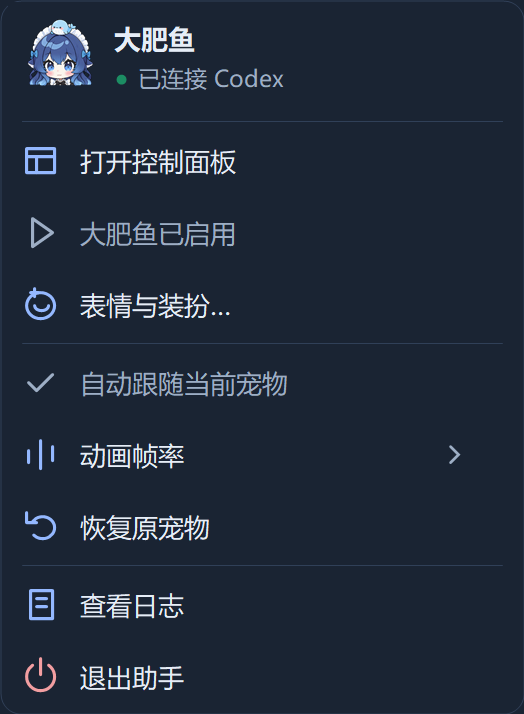
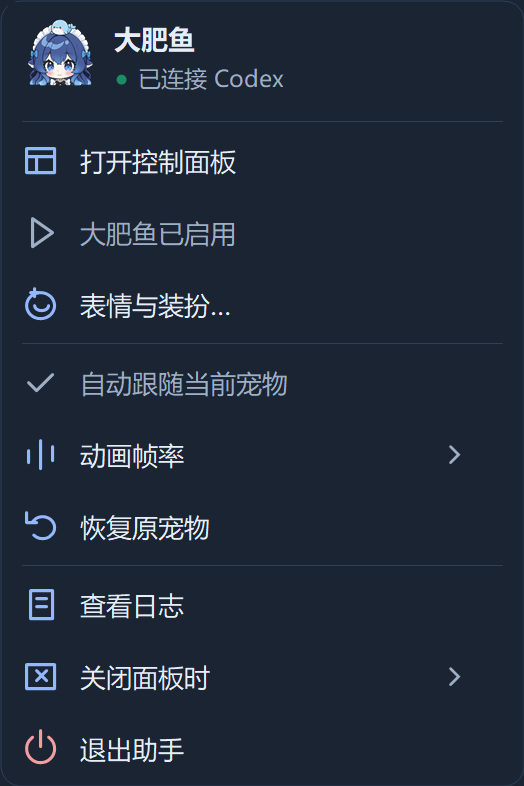
Remember the control panel close action

diff --git a/native/Launcher.cs b/native/Launcher.cs
@@ -95,7 +95,7 @@ internal static class Program {
         else {
             var dashboard=new Dashboard();dashboard.AllowClose=true;
             dashboard.UpdateState(state=="restore-warning"?"大肥鱼已停用，原宠物未显示":state=="waiting"?"等待 Codex 正常退出":state=="error"?"暂未连接":"已连接 Codex",
-                state=="restore-warning"?"刷新宠物窗口后，原图仍未加载。可再次恢复，或启用大肥鱼。":state=="waiting"?"请完成当前工作，再从系统托盘完整退出 Codex。助手会随后正常重开。":state=="error"?"角色暂未加载完成。可以重试连接，或查看日志了解原因。":"大肥鱼正在陪你工作。点关闭可选择收起到托盘、退出或取消。",
+                state=="restore-warning"?"刷新宠物窗口后，原图仍未加载。可再次恢复，或启用大肥鱼。":state=="waiting"?"请完成当前工作，再从系统托盘完整退出 Codex。助手会随后正常重开。":state=="error"?"角色暂未加载完成。可以重试连接，或查看日志了解原因。":"大肥鱼正在陪你工作。收起到托盘后，助手会继续运行。",
                 "界面预览 · 自动跟随当前宠物 · 目标 60 FPS",state=="restore-warning"?state:state=="waiting"?"waiting":state=="error"?"error":"active",false,60,true);
             if(state=="watching")dashboard.UpdateState("等待你打开 Codex","助手继续监测。点“打开 Codex”或再次运行大肥鱼入口，即可一起打开并接入。","自动监测 · 目标 60 FPS",state,false,60,true);
             if(state=="handoff-wait")dashboard.UpdateState("等待你完整退出 Codex","已安排自动接入。请从系统托盘右键 Codex → 退出，助手会随后重开。只关窗口不算退出。","等待接续 · 目标 60 FPS",state,false,60,true);
@@ -130,6 +130,19 @@ internal static class Program {
     }
     internal static string Text(Dictionary<string,object> data,string key,string fallback="") { object value;return data!=null&&data.TryGetValue(key,out value)&&value!=null?Convert.ToString(value):fallback; }
     internal static Dictionary<string,object> ReadPreferences() {try {return ReadJson(Path.Combine(Data,"preferences.json"));}catch{return new Dictionary<string,object>{{"theme","system"},{"dragCompatibility",true},{"earlyAvoidance",false},{"avoidanceTrigger","press"},{"previewBackground","theme"}};} }
+    // This window preference belongs to the launcher, independent of the renderer.
+    internal static string ReadCloseBehavior() {
+        try {var value=File.ReadAllText(Path.Combine(Data,"close-behavior.txt")).Trim();if(value=="tray"||value=="exit")return value;}
+        catch(IOException) {} catch(UnauthorizedAccessException) {}
+        return "ask";
+    }
+    internal static void WriteCloseBehavior(string value) {
+        if(value!="ask"&&value!="tray"&&value!="exit")throw new ArgumentException("Invalid close behavior");
+        Directory.CreateDirectory(Data);
+        var file=Path.Combine(Data,"close-behavior.txt");var temp=file+".tmp";
+        File.WriteAllText(temp,value+"\n",new UTF8Encoding(false));
+        if(File.Exists(file))File.Replace(temp,file,null);else File.Move(temp,file);
+    }
     internal static void ApplyTheme(string theme) {if(!Palette.Configure(theme))return;foreach(Form form in Application.OpenForms){var app=form as AppForm;if(app!=null)app.RefreshTheme();} }
     internal static bool CoreReady() {
         try {
@@ -194,10 +207,14 @@ internal sealed class PetContext : ApplicationContext {
     private string version="",heading="准备连接",detail="正在准备大肥鱼的运行环境。",displayState="starting";
     internal PetContext() {
         dragGuard=new NativeDragGuard(delegate(bool moving) {if(controller!=null&&!controller.HasExited){controller.StandardInput.WriteLine("{\"type\":\"window-drag\",\"moving\":"+(moving?"true":"false")+",\"nativeFastHideCount\":"+dragGuard.FastHideCount+"}");controller.StandardInput.Flush();}});
-        MainForm=panel;ReadSettings();
+        MainForm=panel;ReadSettings();panel.CloseBehavior=Program.ReadCloseBehavior();
         panel.EnableRequested=StartPet;panel.RestoreRequested=RestorePet;panel.FollowRequested=delegate { Reconfigure("--pet-id auto"); };
         panel.FpsRequested=delegate(int requested) { if(requested!=fps)Reconfigure("--fps "+requested); };
         panel.HideRequested=delegate { panel.Hide(); };panel.ExitRequested=Shutdown;panel.LogsRequested=Program.OpenLogs;
+        panel.CloseActionRequested=delegate(string action,bool remember) {
+            if(remember&&!SetCloseBehavior(action))return;
+            if(action=="exit")Shutdown();else panel.Hide();
+        };
         panel.AboutRequested=delegate { using(var about=new AboutDialog())about.ShowDialog(panel); };
         panel.AppearanceRequested=OpenAppearance;
         panel.ThemeRequested=delegate(string choice){SavePreference("theme",choice);};
@@ -207,6 +224,7 @@ internal sealed class PetContext : ApplicationContext {
         trayMenu=new PetTrayMenu();trayMenu.PanelRequested=ShowPanel;trayMenu.EnableRequested=StartPet;
         trayMenu.RestoreRequested=RestorePet;trayMenu.FollowRequested=delegate {Reconfigure("--pet-id auto");};
         trayMenu.AppearanceRequested=OpenAppearance;trayMenu.LogsRequested=Program.OpenLogs;trayMenu.ExitRequested=Shutdown;
+        trayMenu.CloseBehaviorRequested=delegate(string choice){SetCloseBehavior(choice);};
         trayMenu.FpsRequested=delegate(int requested) {if(requested!=fps)Reconfigure("--fps "+requested);};
         tray=new NotifyIcon { Text="大肥鱼 · 准备连接",ContextMenuStrip=trayMenu,Visible=false };UpdateTrayIcon();tray.Visible=true;
         tray.DoubleClick+=delegate { ShowPanel(); };
@@ -229,12 +247,23 @@ internal sealed class PetContext : ApplicationContext {
         var preferences=Program.ReadPreferences();theme=Program.Text(preferences,"theme","system");dragCompatibility=!Program.Text(preferences,"dragCompatibility","True").Equals("False",StringComparison.OrdinalIgnoreCase);earlyAvoidance=Program.Text(preferences,"earlyAvoidance","False").Equals("True",StringComparison.OrdinalIgnoreCase);avoidanceTrigger=Program.Text(preferences,"avoidanceTrigger","press");Program.ApplyTheme(theme);
     }
     private void SavePreference(string key,object value) {if(busy||closing)return;string encoded=Convert.ToBase64String(Encoding.UTF8.GetBytes(new JavaScriptSerializer().Serialize(new Dictionary<string,object>{{key,value}})));Work(delegate{Program.Run("preferences.mjs","set "+encoded);},delegate{ReadSettings();Render();});}
+    private bool SetCloseBehavior(string value) {
+        if(value==panel.CloseBehavior)return true;
+        try {Program.WriteCloseBehavior(value);}
+        catch(IOException error) {return CloseBehaviorWriteFailed(error);}
+        catch(UnauthorizedAccessException error) {return CloseBehaviorWriteFailed(error);}
+        panel.CloseBehavior=value;trayMenu.UpdateCloseBehavior(value);return true;
+    }
+    private bool CloseBehaviorWriteFailed(Exception error) {
+        Program.UiLog(error.ToString());ShowPanel();Display(heading,"未能保存关闭偏好。请重试，或查看日志。",displayState);return false;
+    }
     private void Render() {
         if(panel.IsDisposed)return;
         string metadata=(String.IsNullOrEmpty(version)?"本机连接":"Codex "+version)+" · "+(automatic?"自动跟随当前宠物":"固定宠物")+" · 目标 "+fps+" FPS";
         panel.UpdateState(heading,detail,metadata,displayState,busy,fps,automatic);
         panel.UpdateOptions(theme,dragCompatibility,earlyAvoidance,avoidanceTrigger,busy);
         trayMenu.UpdateState(heading,displayState,busy,fps,automatic);
+        trayMenu.UpdateCloseBehavior(panel.CloseBehavior);
         string tooltip="大肥鱼 · "+heading;tray.Text=tooltip.Length>63?tooltip.Substring(0,63):tooltip;
     }
     private void Display(string title,string description,string state) {

diff --git a/native/Dashboard.cs b/native/Dashboard.cs
@@ -97,7 +97,8 @@ internal sealed class SettingsSwitch : CheckBox {
     protected override void OnPaint(PaintEventArgs e) {
         float scale=e.Graphics.DpiX/96f;float width=44*scale,height=24*scale;
         var track=new RectangleF(Width-width, (Height-height)/2,width,height);
-        e.Graphics.Clear(Palette.Surface);e.Graphics.SmoothingMode=SmoothingMode.AntiAlias;
+        Color background=Parent is CardPanel?Palette.Surface:Palette.Background;
+        e.Graphics.Clear(background);e.Graphics.SmoothingMode=SmoothingMode.AntiAlias;
         Color fill=Checked?(Enabled?Palette.Blue:Palette.Dark?Color.FromArgb(53,76,111):Color.FromArgb(159,185,229)):
             Palette.Dark?Color.FromArgb(48,64,88):Color.FromArgb(209,220,235);
         if(hover&&Enabled)fill=Checked?Color.FromArgb(37,91,198):Palette.Dark?Color.FromArgb(61,79,105):Color.FromArgb(190,207,229);
@@ -107,7 +108,7 @@ internal sealed class SettingsSwitch : CheckBox {
             e.Graphics.FillEllipse(brush,Checked?track.Right-padding-knob:track.Left+padding,track.Top+padding,knob,knob);
         var textRect=new Rectangle(0,0,Math.Max(0,(int)(track.Left-12*scale)),Height);
         TextRenderer.DrawText(e.Graphics,Text,Font,textRect,Enabled?Palette.Ink:Palette.Muted,TextFormatFlags.Left|TextFormatFlags.VerticalCenter|TextFormatFlags.SingleLine|TextFormatFlags.NoPadding);
-        if(Focused&&ShowFocusCues)ControlPaint.DrawFocusRectangle(e.Graphics,Rectangle.Inflate(ClientRectangle,-2,-2),Palette.Accent,Palette.Surface);
+        if(Focused&&ShowFocusCues)ControlPaint.DrawFocusRectangle(e.Graphics,Rectangle.Inflate(ClientRectangle,-2,-2),Palette.Accent,background);
     }
 }
 
@@ -174,6 +175,8 @@ internal class AppForm : Form {
 
 internal sealed class Dashboard : AppForm {
     internal Action EnableRequested,RestoreRequested,FollowRequested,HideRequested,ExitRequested,LogsRequested,AboutRequested,AppearanceRequested;
+    internal Action<string,bool> CloseActionRequested;
+    internal string CloseBehavior="ask";
     internal Action<int> FpsRequested;
     internal Action<string> ThemeRequested;
     internal Action<string> AvoidanceTriggerRequested;
@@ -230,12 +233,16 @@ internal sealed class Dashboard : AppForm {
             if(AllowClose)return;
             e.Cancel=true;if(closeChoiceOpen)return;
             if(e.CloseReason==CloseReason.WindowsShutDown) { if(ExitRequested!=null)ExitRequested();return; }
+            if(CloseBehavior=="tray"||CloseBehavior=="exit") {
+                if(CloseActionRequested!=null)CloseActionRequested(CloseBehavior,false);
+                return;
+            }
             closeChoiceOpen=true;
             try {
                 using(var choice=new CloseChoice()) {
                     var result=choice.ShowDialog(this);
-                    if(result==DialogResult.Yes) { if(HideRequested!=null)HideRequested(); }
-                    else if(result==DialogResult.No) { if(ExitRequested!=null)ExitRequested(); }
+                    if((result==DialogResult.Yes||result==DialogResult.No)&&CloseActionRequested!=null)
+                        CloseActionRequested(result==DialogResult.Yes?"tray":"exit",choice.RememberChoice);
                 }
             } finally { closeChoiceOpen=false; }
         };
@@ -270,16 +277,22 @@ internal sealed class Dashboard : AppForm {
 }
 
 internal sealed class CloseChoice : AppForm {
+    private readonly SettingsSwitch remember;
+    internal bool RememberChoice {get{return remember.Checked;}}
     internal CloseChoice() {
         SuspendLayout();AutoScaleMode=AutoScaleMode.None;Font=Palette.Font(10);
         BackColor=Palette.Background;ClientSize=new Size(520,260);Text="关闭控制面板";Icon=Program.AppIcon;
         FormBorderStyle=FormBorderStyle.FixedDialog;MaximizeBox=false;MinimizeBox=false;StartPosition=FormStartPosition.CenterParent;ShowInTaskbar=false;
         Palette.Label(this,"选择关闭方式",24,23,472,35,17,true);
         var text=Palette.Label(this,"收起到托盘：大肥鱼继续在后台陪伴。\n退出助手：恢复原宠物，Codex 会继续运行。",24,80,472,65,10);text.ForeColor=Palette.Muted;
-        var hide=new SoftButton("收起到托盘",24,194,180,40,true);hide.Name="ConfirmHide";hide.DialogResult=DialogResult.Yes;Controls.Add(hide);
-        var exit=new SoftButton("退出助手",216,194,172,40);exit.Name="ConfirmExit";exit.DialogResult=DialogResult.No;Controls.Add(exit);
-        var cancel=new SoftButton("取消",400,194,96,40);cancel.Name="CancelClose";cancel.DialogResult=DialogResult.Cancel;Controls.Add(cancel);
-        AcceptButton=hide;CancelButton=cancel;FinishLayout();
+        remember=new SettingsSwitch("记住这次选择","RememberCloseChoice",24,141,472);Controls.Add(remember);
+        var hide=new SoftButton("收起到托盘",24,194,230,40,true);hide.Name="ConfirmHide";hide.DialogResult=DialogResult.Yes;Controls.Add(hide);
+        var exit=new SoftButton("退出助手",266,194,230,40);exit.Name="ConfirmExit";exit.DialogResult=DialogResult.No;Controls.Add(exit);
+        AcceptButton=hide;FinishLayout();
+    }
+    protected override bool ProcessDialogKey(Keys keyData) {
+        if(keyData==Keys.Escape){DialogResult=DialogResult.Cancel;return true;}
+        return base.ProcessDialogKey(keyData);
     }
 }
 

diff --git a/native/TrayMenu.cs b/native/TrayMenu.cs
@@ -8,7 +8,9 @@ using System.Windows.Forms;
 internal sealed class PetTrayMenu : ContextMenuStrip {
     internal Action PanelRequested,EnableRequested,RestoreRequested,FollowRequested,AppearanceRequested,LogsRequested,ExitRequested;
     internal Action<int> FpsRequested;
+    internal Action<string> CloseBehaviorRequested;
     private readonly ToolStripMenuItem enable,restore,follow,appearance,fps30,fps60;
+    private readonly ToolStripMenuItem closeAsk,closeTray,closeExit;
     private readonly TrayHeading header;
     private readonly float scale;
     internal PetTrayMenu() {
@@ -29,6 +31,11 @@ internal sealed class PetTrayMenu : ContextMenuStrip {
         restore=Add("恢复原宠物","restore",delegate {if(RestoreRequested!=null)RestoreRequested();});
         Items.Add(new ToolStripSeparator());
         Add("查看日志","logs",delegate {if(LogsRequested!=null)LogsRequested();});
+        var close=Add("关闭面板时","close",null);
+        closeAsk=Sub(close,"每次询问",delegate {if(CloseBehaviorRequested!=null)CloseBehaviorRequested("ask");});
+        closeTray=Sub(close,"收起到托盘",delegate {if(CloseBehaviorRequested!=null)CloseBehaviorRequested("tray");});
+        closeExit=Sub(close,"退出助手",delegate {if(CloseBehaviorRequested!=null)CloseBehaviorRequested("exit");});
+        UpdateCloseBehavior("ask");
         var exit=Add("退出助手","exit",delegate {if(ExitRequested!=null)ExitRequested();});
         exit.ToolTipText="退出助手并恢复原宠物；Codex 继续运行。";
         Opening+=delegate {RefreshTheme();};RefreshTheme();
@@ -56,6 +63,9 @@ internal sealed class PetTrayMenu : ContextMenuStrip {
         RefreshTheme();
     }
     internal void RefreshTheme() {ApplyPalette(this);header.Invalidate();}
+    internal void UpdateCloseBehavior(string value) {
+        closeAsk.Checked=value=="ask";closeTray.Checked=value=="tray";closeExit.Checked=value=="exit";
+    }
     private static void ApplyPalette(ToolStrip strip) {
         strip.BackColor=Palette.Surface;strip.ForeColor=Palette.Ink;
         foreach(ToolStripItem item in strip.Items) {
@@ -118,6 +128,7 @@ internal sealed class PetMenuRenderer : ToolStripRenderer {
             else if(glyph=="fps") {e.Graphics.DrawLine(pen,3,13,3,7);e.Graphics.DrawLine(pen,9,16,9,2);e.Graphics.DrawLine(pen,15,12,15,5);}
             else if(glyph=="restore") {e.Graphics.DrawArc(pen,4,4,12,11,210,290);e.Graphics.DrawLines(pen,new[]{new PointF(2,2),new PointF(2,7),new PointF(7,7)});}
             else if(glyph=="logs") {e.Graphics.DrawRectangle(pen,4,2,11,14);e.Graphics.DrawLine(pen,7,6,12,6);e.Graphics.DrawLine(pen,7,10,12,10);}
+            else if(glyph=="close") {e.Graphics.DrawRectangle(pen,2,3,14,12);e.Graphics.DrawLine(pen,7,6,12,11);e.Graphics.DrawLine(pen,12,6,7,11);}
             else if(glyph=="exit") {e.Graphics.DrawArc(pen,2,2,14,14,-55,290);e.Graphics.DrawLine(pen,9,0,9,8);}
         }
         e.Graphics.Restore(saved);

diff --git a/native/AssemblyInfo.cs b/native/AssemblyInfo.cs
@@ -5,8 +5,8 @@ using System.Runtime.InteropServices;
 [assembly: AssemblyCompany("Chris-Geeky")]
 [assembly: AssemblyProduct("大肥鱼 · Codex 宠物助手")]
 [assembly: AssemblyCopyright("Copyright © 2026 Chris-Geeky")]
-[assembly: AssemblyVersion("0.5.4.0")]
-[assembly: AssemblyFileVersion("0.5.4.0")]
-[assembly: AssemblyInformationalVersion("0.5.4")]
+[assembly: AssemblyVersion("0.5.5.0")]
+[assembly: AssemblyFileVersion("0.5.5.0")]
+[assembly: AssemblyInformationalVersion("0.5.5")]
 [assembly: System.Runtime.Versioning.TargetFramework(".NETFramework,Version=v4.8",FrameworkDisplayName=".NET Framework 4.8")]
 [assembly: ComVisible(false)]

diff --git a/RELEASE_NOTES.md b/RELEASE_NOTES.md
@@ -1,15 +1,8 @@
-Windows x64 便携预览版：修复摸头与表情叠加，更新托盘菜单及接入提示。
+Windows x64 便携预览版：控制面板可记住关闭方式。
 
-- 完整解压 codex-dafeiyu-live2d-v0.5.4-win-x64.zip，双击 CodexDafeiyu.exe。现有装扮、主题、帧率、启动监测设置与 Core 继续使用。
-- 托盘右键菜单跟随系统／浅色／深色主题，统一头像、连接状态、图标、间距与分组；帧率和自动跟随显示当前选择，忙碌时阻止冲突操作。
-- 拖窗兼容与提前避让改为大开关，整行文字均可点击；“按下时（推荐）／移入时”改用圆角按钮直接选择。整理卡片高度和间距，保留全部原有偏好。
-- 未开启接入通道时明确显示“等待你完整退出 Codex”，步骤直接写在原状态卡片内，可用“停止自动接入”取消等候。消除反复点“重新检测”就能接入的误解；仍需从系统托盘退出后由助手接续打开。
-- 鼠标在可见头部停留约 180 毫秒进入闭眼摸头；期间自动表情计时与背景动作暂停，任务状态仍更新，不能抢走摸头姿态。
-- 指针短暂离开留约 220 毫秒缓冲，离开后恢复当前保存的表情，自动切换再等约 2 秒。拖动或明确手动播放动作时结束摸头并执行用户操作。
-- 将脸部配置编译到单一参数层：切换时清除旧表情，避免两份加法表情交叠；手动或自动表情显示时隔离动作自带的脸部参数。眼镜、贴纸等装扮继续独立组合。
-- 动作结束后恢复未占用的眼睛、眉毛和嘴部参数，避免上一动作的姿态残留。保留自然眨眼和视线跟随。
-- 预览窗口不触发摸头，选中的脸部表情保持可核对。保留全部 20 种自动表情、动作池与 v0.5.3 启动重连流程。
+- 关闭弹窗只显示“收起到托盘”和“退出助手”。按 Esc 或点弹窗右上角 × 可取消。
+- 勾选“记住这次选择”后再点一个按钮，下次关闭控制面板时直接执行。取消时不保存。
+- 右键大肥鱼托盘图标，在“关闭面板时”可切换关闭方式，也可改回“每次询问”。
+- 完整解压 codex-dafeiyu-live2d-v0.5.5-win-x64.zip，双击 CodexDafeiyu.exe。退出助手仍会恢复原宠物，Codex 继续运行。
 
-验证：34 项单元／策略／生命周期、49 项真实模型浏览器、30 项编辑器、64 项原生界面检查。真实模型覆盖哭脸切星星眼、动作脸部参数互斥、连续快速切换、摸头时任务变化、自动计时暂停、短暂离开、恢复最新设置、拖动事件、原生指针离开通知与透明区。托盘验证状态、指令分派、忙碌保护、主题同步与 200% DPI 布局。另在当前 Codex 26.1029.7803.0 的独立本地测试实例通过 6 项检查，确认原生宠物加载、连续动画及原图恢复；未复制真实登录，未发送模型请求。
-
-已知限制保留：从普通官方图标启动、未开启接入通道的 Codex 仍需由助手接续打开；按下避让模式快速拖窗仍可能起步闪烁。当前仍为非官方、未签名便携预览版，另一台电脑首次使用尚待验证。代码 MIT，角色与头像 CC BY-NC-SA 4.0，其余组件适用各自条款。
+安装、首次接入和使用说明见 START-HERE.txt。此版本仍为非官方、未签名的 Windows x64 便携预览版。
